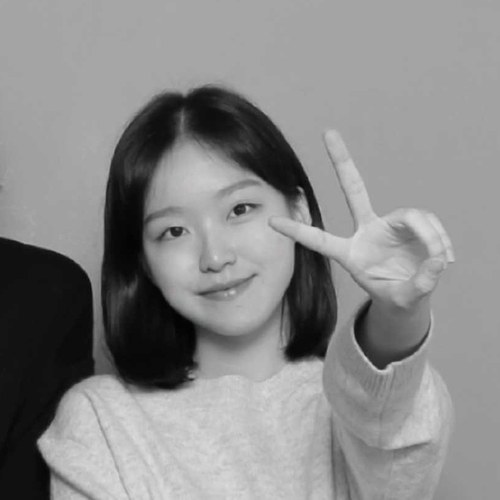
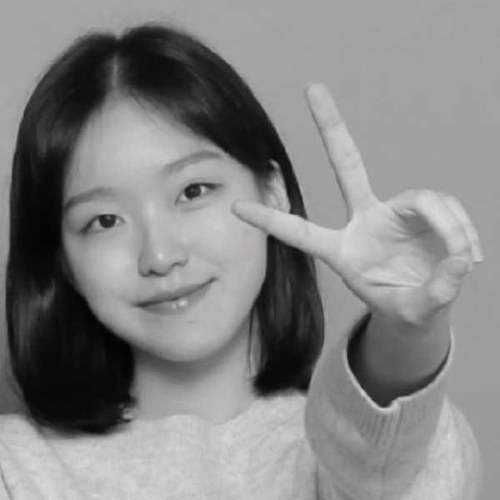
Enlarge profile photo, set location to Ansan, hide GitHub link

diff --git a/_sass/layout/_sidebar.scss b/_sass/layout/_sidebar.scss
@@ -145,7 +145,7 @@
 .author__avatar {
   display: table-cell;
   vertical-align: top;
-  width: 36px;
+  width: 80px;
   // set width only, for non-square avatars
   // height: 36px;
 
@@ -156,7 +156,8 @@
   }
 
   img {
-    max-width: 175px;
+    width: 100%;
+    max-width: 220px;
     border-radius: 50%;
 
     @include breakpoint($large) {
